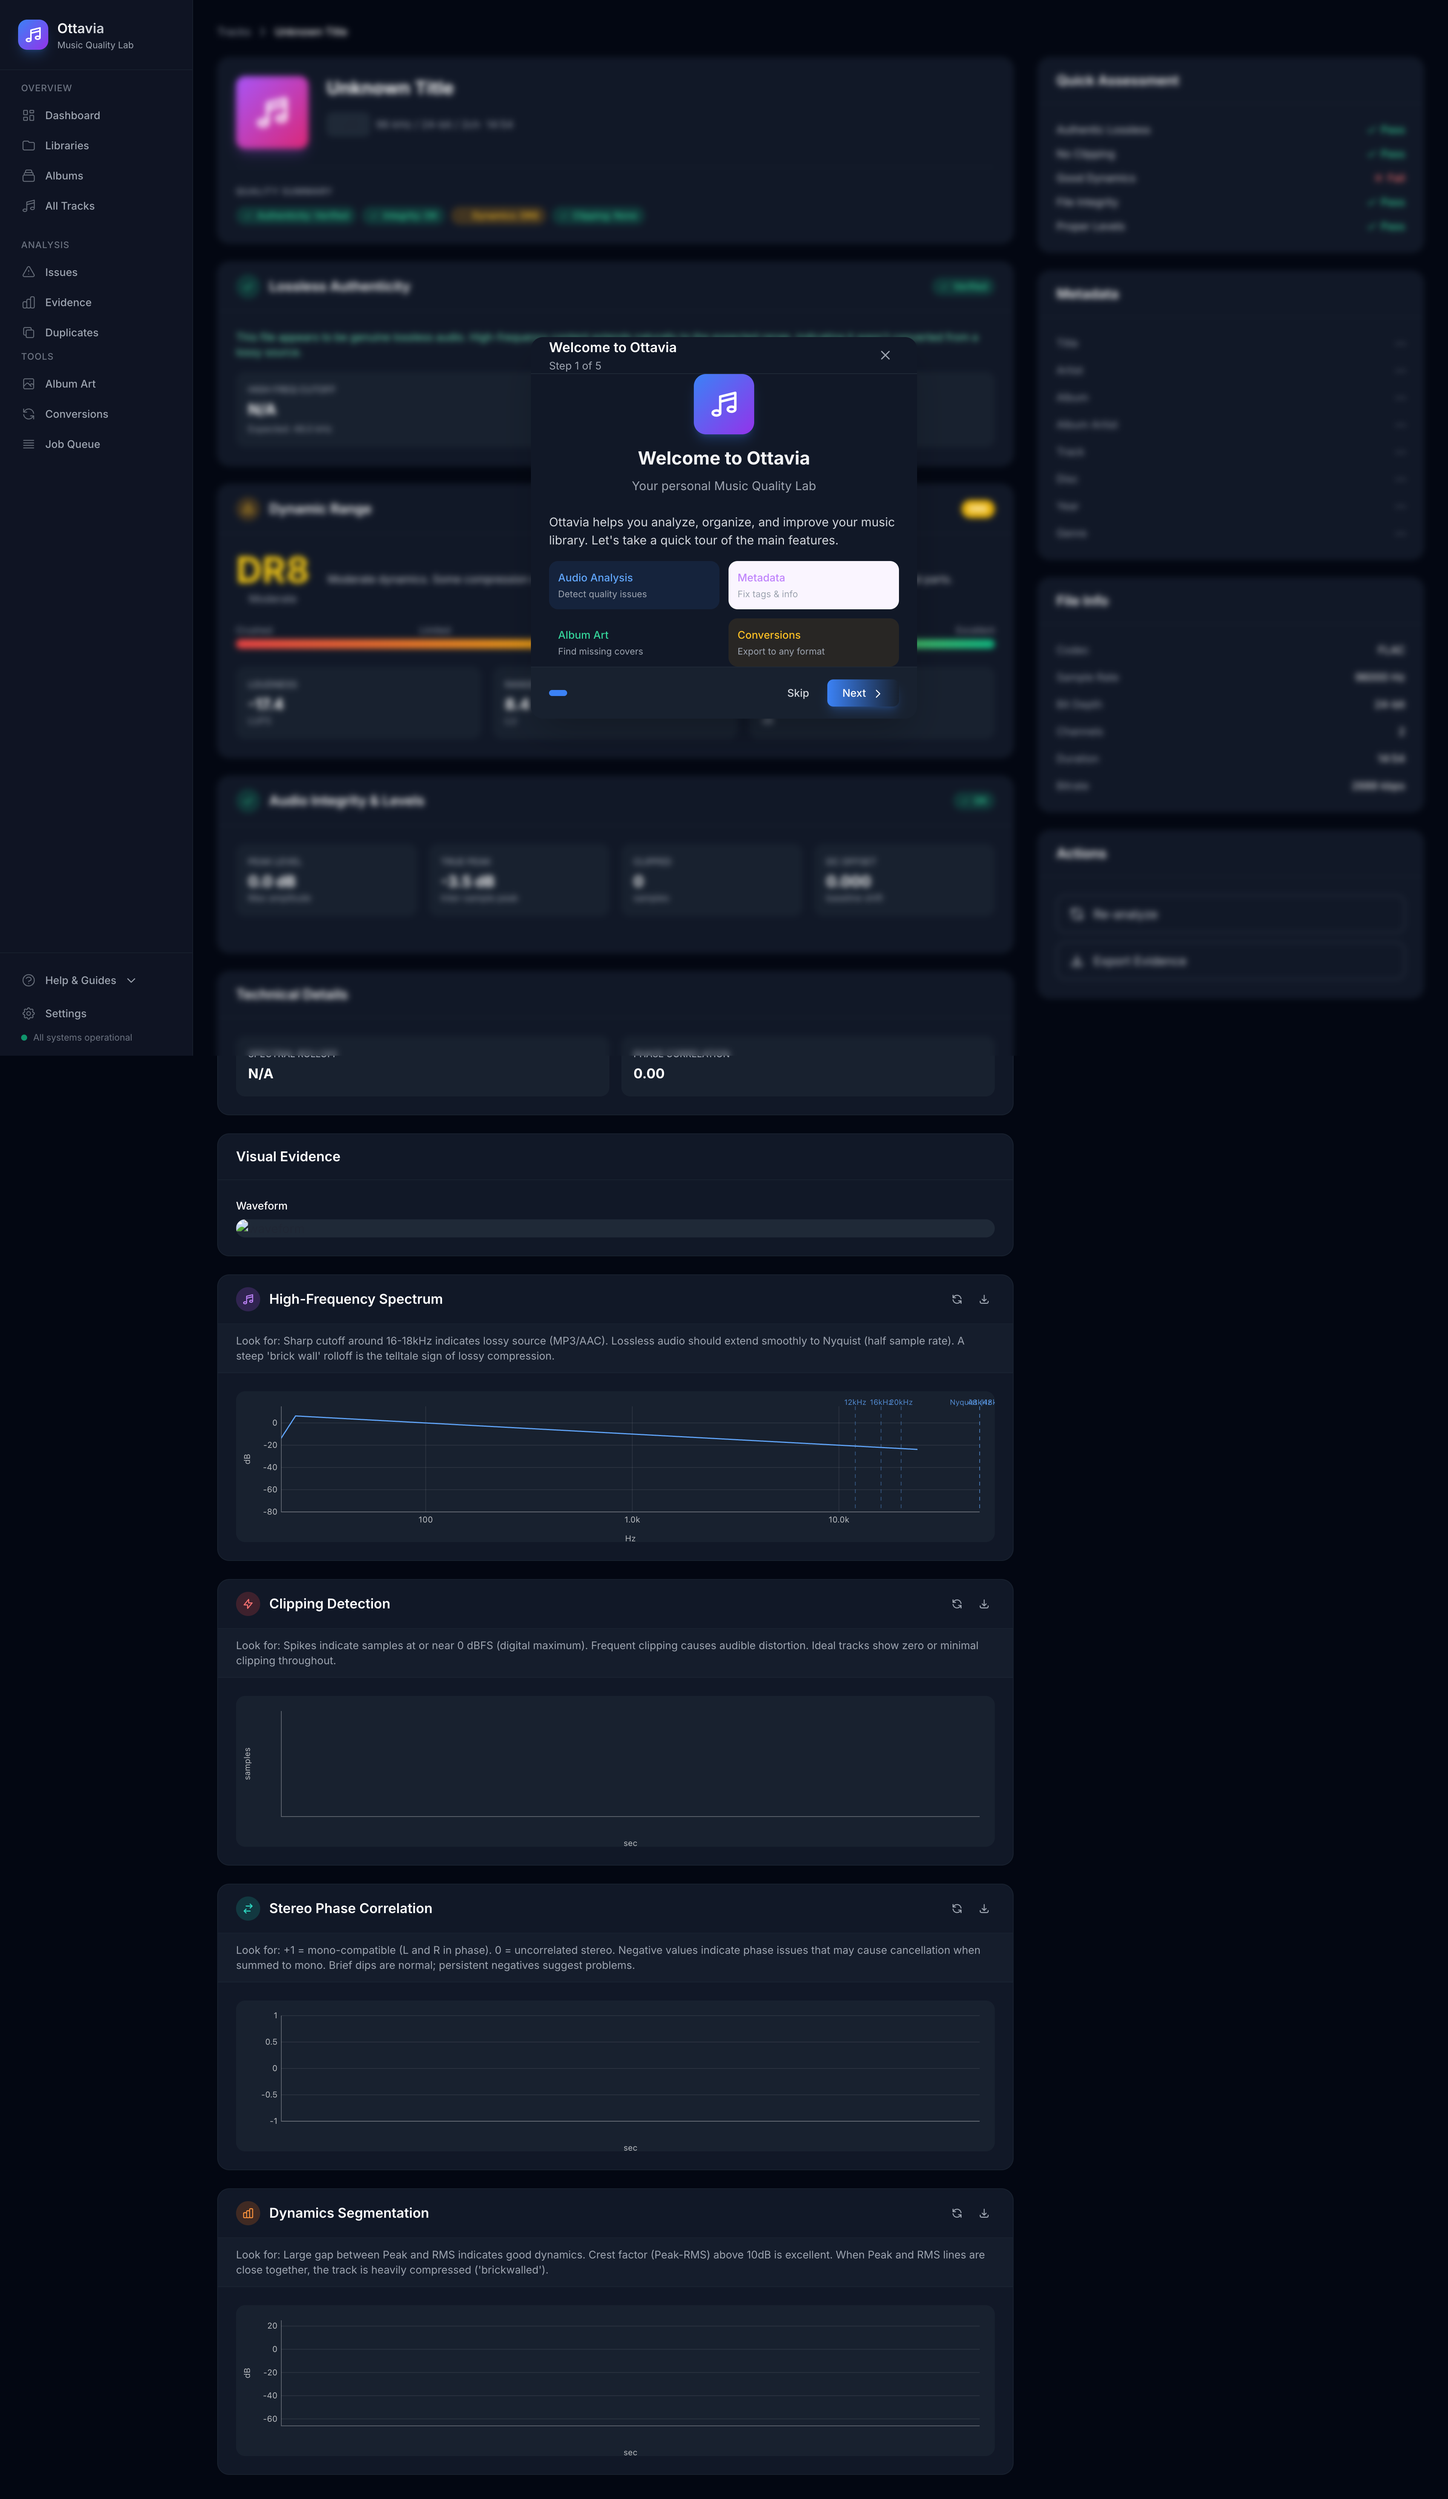
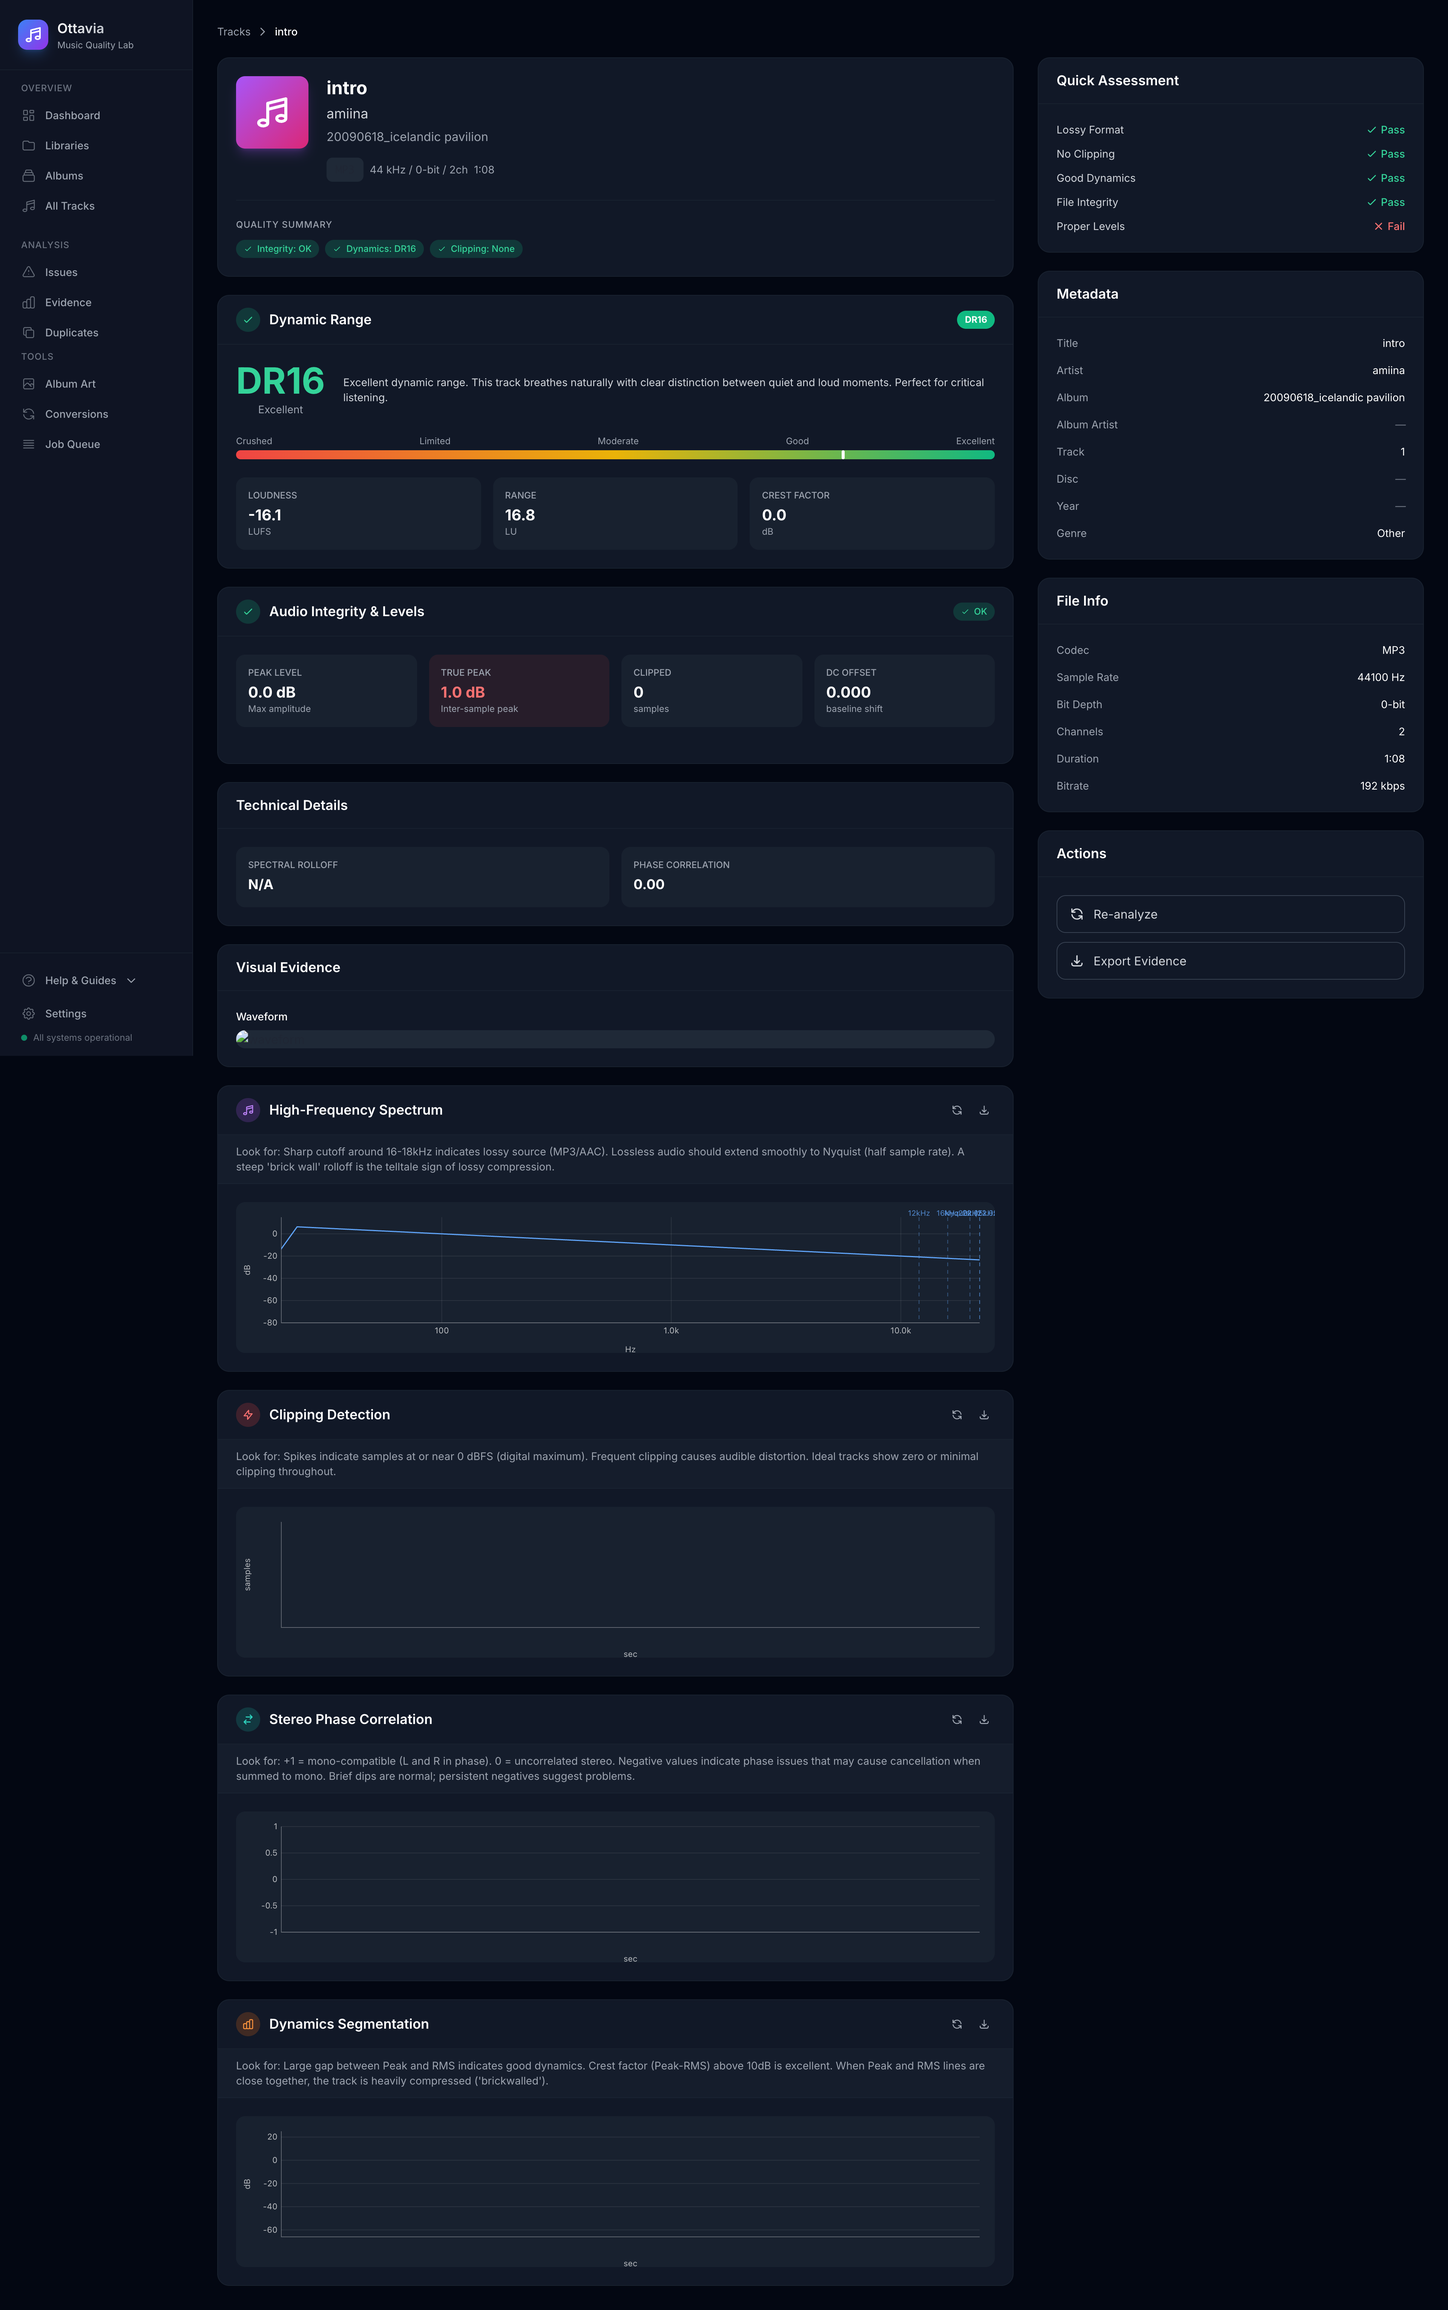
Fix wizard overlay in screenshots and improve mobile layout
- Fix screenshot generator to dismiss wizard before capturing
- Add dedicated wizard-welcome screenshot showing onboarding modal
- Use localStorage to prevent wizard auto-show during screenshots
- Increase mobile viewport to iPhone 14/15 size (390x844)
- Update README with wizard screenshot section
- Clean up all screenshots without wizard overlay

diff --git a/tests/e2e/screenshots.go b/tests/e2e/screenshots.go
@@ -67,32 +67,34 @@ func main() {
 
 	// Screenshots to capture
 	screenshots := []struct {
-		name     string
-		path     string
-		width    int
-		height   int
-		darkMode bool
-		wait     time.Duration
-		fullPage bool
+		name       string
+		path       string
+		width      int
+		height     int
+		darkMode   bool
+		wait       time.Duration
+		fullPage   bool
+		showWizard bool
 	}{
-		{"dashboard-light", "/", 1920, 1080, false, 500 * time.Millisecond, false},
-		{"dashboard-dark", "/", 1920, 1080, true, 500 * time.Millisecond, false},
-		{"tracks-light", "/tracks", 1920, 1080, false, 500 * time.Millisecond, false},
-		{"tracks-dark", "/tracks", 1920, 1080, true, 500 * time.Millisecond, false},
-		{"track-detail-light", "/tracks/" + trackID, 1920, 1400, false, 500 * time.Millisecond, true},
-		{"track-detail-dark", "/tracks/" + trackID, 1920, 1400, true, 500 * time.Millisecond, true},
-		{"albums-light", "/albums", 1920, 1080, false, 500 * time.Millisecond, false},
-		{"albums-dark", "/albums", 1920, 1080, true, 500 * time.Millisecond, false},
-		{"album-detail-light", albumURL, 1920, 1400, false, 500 * time.Millisecond, true},
-		{"album-detail-dark", albumURL, 1920, 1400, true, 500 * time.Millisecond, true},
-		{"settings-light", "/settings", 1920, 1080, false, 500 * time.Millisecond, false},
-		{"settings-dark", "/settings", 1920, 1080, true, 500 * time.Millisecond, false},
-		{"conversions-light", "/conversions", 1920, 1080, false, 500 * time.Millisecond, false},
-		{"conversions-dark", "/conversions", 1920, 1080, true, 500 * time.Millisecond, false},
-		{"artwork-light", "/artwork", 1920, 1080, false, 500 * time.Millisecond, false},
-		{"artwork-dark", "/artwork", 1920, 1080, true, 500 * time.Millisecond, false},
-		{"dashboard-mobile", "/", 375, 812, false, 500 * time.Millisecond, false},
-		{"tracks-mobile", "/tracks", 375, 812, false, 500 * time.Millisecond, false},
+		{"dashboard-light", "/", 1920, 1080, false, 500 * time.Millisecond, false, false},
+		{"dashboard-dark", "/", 1920, 1080, true, 500 * time.Millisecond, false, false},
+		{"tracks-light", "/tracks", 1920, 1080, false, 500 * time.Millisecond, false, false},
+		{"tracks-dark", "/tracks", 1920, 1080, true, 500 * time.Millisecond, false, false},
+		{"track-detail-light", "/tracks/" + trackID, 1920, 1400, false, 500 * time.Millisecond, true, false},
+		{"track-detail-dark", "/tracks/" + trackID, 1920, 1400, true, 500 * time.Millisecond, true, false},
+		{"albums-light", "/albums", 1920, 1080, false, 500 * time.Millisecond, false, false},
+		{"albums-dark", "/albums", 1920, 1080, true, 500 * time.Millisecond, false, false},
+		{"album-detail-light", albumURL, 1920, 1400, false, 500 * time.Millisecond, true, false},
+		{"album-detail-dark", albumURL, 1920, 1400, true, 500 * time.Millisecond, true, false},
+		{"settings-light", "/settings", 1920, 1080, false, 500 * time.Millisecond, false, false},
+		{"settings-dark", "/settings", 1920, 1080, true, 500 * time.Millisecond, false, false},
+		{"conversions-light", "/conversions", 1920, 1080, false, 500 * time.Millisecond, false, false},
+		{"conversions-dark", "/conversions", 1920, 1080, true, 500 * time.Millisecond, false, false},
+		{"artwork-light", "/artwork", 1920, 1080, false, 500 * time.Millisecond, false, false},
+		{"artwork-dark", "/artwork", 1920, 1080, true, 500 * time.Millisecond, false, false},
+		{"wizard-welcome", "/", 1920, 1080, true, 800 * time.Millisecond, false, true},
+		{"dashboard-mobile", "/", 390, 844, false, 500 * time.Millisecond, false, false},
+		{"tracks-mobile", "/tracks", 390, 844, false, 500 * time.Millisecond, false, false},
 	}
 
 	for _, s := range screenshots {
@@ -124,7 +126,21 @@ func main() {
 			continue
 		}
 
-		// Navigate to page
+		// Set localStorage to prevent wizard auto-show BEFORE navigating (except for wizard screenshot)
+		if !s.showWizard {
+			// First navigate to base URL to set localStorage
+			_, err = page.Goto(baseURL, playwright.PageGotoOptions{
+				WaitUntil: playwright.WaitUntilStateCommit,
+			})
+			if err == nil {
+				page.Evaluate(`
+					localStorage.setItem('welcomeWizardDismissed', 'true');
+					localStorage.setItem('wizardsCompleted', JSON.stringify(['welcome']));
+				`)
+			}
+		}
+
+		// Navigate to target page
 		_, err = page.Goto(fmt.Sprintf("%s%s", baseURL, s.path), playwright.PageGotoOptions{
 			WaitUntil: playwright.WaitUntilStateNetworkidle,
 		})
@@ -144,6 +160,21 @@ func main() {
 				log.Printf("Error setting dark mode: %v", err)
 			}
 			time.Sleep(300 * time.Millisecond) // Wait for theme transition
+		}
+
+		// Handle wizard overlay
+		if s.showWizard {
+			// Show the welcome wizard - wait for Alpine first
+			time.Sleep(500 * time.Millisecond)
+			_, err = page.Evaluate(`
+				if (typeof Alpine !== 'undefined' && Alpine.store('wizard')) {
+					Alpine.store('wizard').start('welcome');
+				}
+			`)
+			if err != nil {
+				log.Printf("Error showing wizard: %v", err)
+			}
+			time.Sleep(500 * time.Millisecond) // Wait for wizard animation
 		}
 
 		// Take screenshot

diff --git a/README.md b/README.md
@@ -183,6 +183,12 @@ Are your "lossless" files actually lossless? Many FLAC and ALAC files in the wil
 </p>
 
 <p align="center">
+  <img src="screenshots/wizard-welcome.png" alt="Welcome Wizard" width="100%">
+  <br>
+  <em>Interactive Onboarding - Guided wizards for new users</em>
+</p>
+
+<p align="center">
   <img src="screenshots/dashboard-mobile.png" alt="Mobile" width="300">
   <img src="screenshots/tracks-mobile.png" alt="Mobile Tracks" width="300">
   <br>
